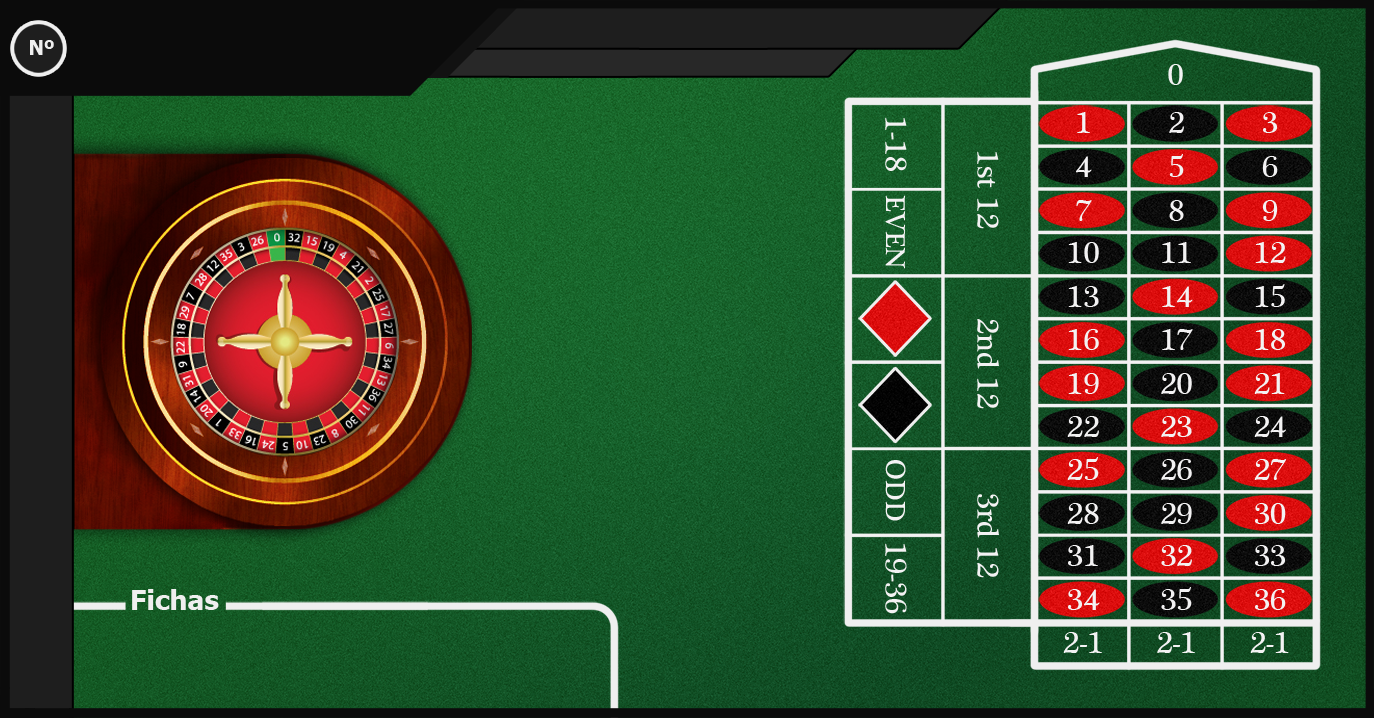
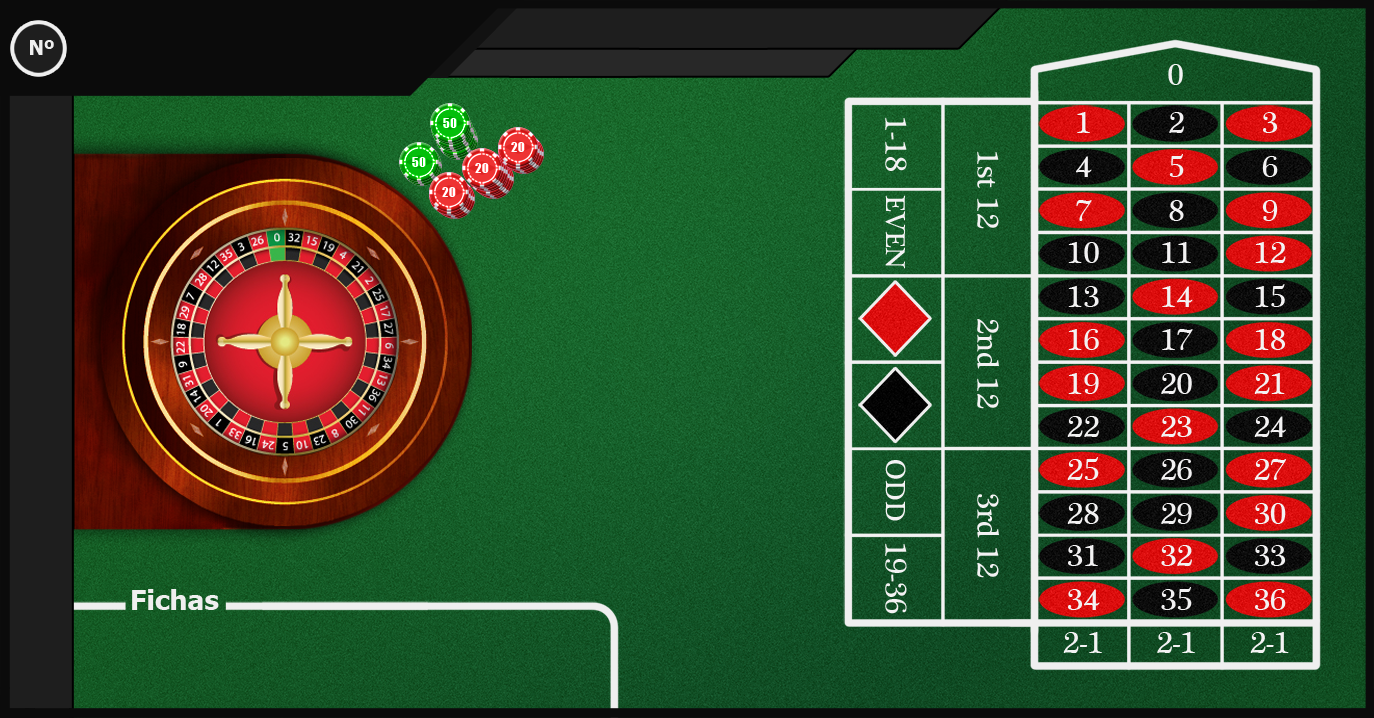
Beta 3.1

Changed region(s): [[0.2751, 0.1226, 0.3974, 0.3064]]

diff --git a/WpfApplication1/Roleta.xaml b/WpfApplication1/Roleta.xaml
@@ -104,8 +104,8 @@
                             x:Name="Border"  
                             CornerRadius="100" 
                             BorderThickness="6"
-                            Background="#212121"
-                            BorderBrush="#F2F2F2">
+                            Background="{TemplateBinding Background}"
+                            BorderBrush="#00F2F2F2">
                             <ContentPresenter 
                                   Margin="2"
                                   HorizontalAlignment="Center"
@@ -120,10 +120,11 @@
                                 <Setter TargetName="Border" Property="BorderBrush" Value="#E8E8E8" />
                             </Trigger>
                             <Trigger Property="IsMouseOver" Value="true">
-                                <Setter TargetName="Border" Property="Background" Value="#474747" />
+                                
+                                <Setter TargetName="Border" Property="BorderBrush" Value="#60F2F2F2" />
                             </Trigger>
                             <Trigger Property="IsPressed" Value="true">
-                                <Setter TargetName="Border" Property="Background" Value="#474747" />
+                                
                                 <Setter TargetName="Border" Property="BorderBrush" Value="#E8E8E8" />
                             </Trigger>
                             <Trigger Property="IsEnabled" Value="false">
@@ -144,7 +145,7 @@
                             x:Name="Border"  
                             CornerRadius="100" 
                             BorderThickness="6"
-                            Background="#474747"
+                            Background="{TemplateBinding Background}"
                             BorderBrush="#F2F2F2">
                             <ContentPresenter 
                                   Margin="2"
@@ -321,7 +322,7 @@
         </Style>
     </Window.Resources>
     
-    <Grid HorizontalAlignment="Left" VerticalAlignment="Top" Width="1200" Height="630" Name="layoutGrid">
+    <Grid HorizontalAlignment="Left" VerticalAlignment="Top" Width="1200" Height="630" Name="layoutGrid" MinHeight="60" MinWidth="60">
         <Grid.ColumnDefinitions>
         </Grid.ColumnDefinitions>
         <Grid.RowDefinitions>
@@ -332,12 +333,36 @@
         <Image Height="349" HorizontalAlignment="Left" Margin="63,124,0,0" Name="img_roulettte" Stretch="UniformToFill" VerticalAlignment="Top" Width="352" Source="/WpfApplication1;component/Images/Roleta.png" />
         <Button Content="Girar a Roleta" HorizontalAlignment="Right" Margin="0,187,511,344" Name="btn_spin" Width="208" Click="btn_spin_MouseLeftClick" FontSize="18" FontWeight="Bold" Foreground="#FFE2E2E2" Background="#FF00A345" BorderBrush="#FF5F5F5F" BorderThickness="10" OverridesDefaultStyle="True" UseLayoutRounding="False" Style="{StaticResource myStyle2}" IsEnabled="False"></Button>
         <Label Content="Saldo :" FontSize="30" FontWeight="Bold" Foreground="#FFFFC400" Height="45" HorizontalAlignment="Left" Margin="83,16,0,0" Name="lbl_saldo" VerticalAlignment="Top" Width="292" />
-        <Button Content="1" Height="60" HorizontalAlignment="Left" Margin="77,549,0,0" Name="chipBtn_1" VerticalAlignment="Top" Width="60" Style="{StaticResource chip}" FontSize="16" FontWeight="Bold" Foreground="#FFFFBD00" FontFamily="Arial" MinWidth="60" MinHeight="60" Click="chip_Click" ClickMode="Release" />
-        <Button Content="5" Height="60" HorizontalAlignment="Left" Margin="152,549,0,0" Name="chipBtn_5" VerticalAlignment="Top" Width="60" Style="{StaticResource chip}" FontSize="16" FontWeight="Bold" Foreground="#FFFFBD00" FontFamily="Arial" MinWidth="60" MinHeight="60" Click="chip_Click" ClickMode="Release" />
-        <Button Content="10" Height="60" HorizontalAlignment="Left" Margin="227,549,0,0" Name="chipBtn_10" VerticalAlignment="Top" Width="60" Style="{StaticResource chip}" FontSize="16" FontWeight="Bold" Foreground="#FFFFBD00" FontFamily="Arial" MinWidth="60" MinHeight="60" Click="chip_Click" ClickMode="Release" />
-        <Button Content="50" FontFamily="Arial" FontSize="16" FontWeight="Bold" Foreground="#FFFFBD00" Height="60" HorizontalAlignment="Left" Margin="377,549,0,0" MinHeight="60" MinWidth="60" Name="chipBtn_50" Style="{StaticResource chip}" VerticalAlignment="Top" Width="60" Click="chip_Click" ClickMode="Release" />
-        <Button Content="20" FontFamily="Arial" FontSize="16" FontWeight="Bold" Foreground="#FFFFBD00" Height="60" HorizontalAlignment="Left" Margin="302,549,0,0" MinHeight="60" MinWidth="60" Name="chipBtn_20" Style="{StaticResource chip}" VerticalAlignment="Top" Width="60" Click="chip_Click" ClickMode="Release" />
-        <Button Content="100" FontFamily="Arial" FontSize="16" FontWeight="Bold" Foreground="#FFFFBD00" Height="60" HorizontalAlignment="Left" Margin="452,549,0,0" MinHeight="60" MinWidth="60" Name="chipBtn_100" Style="{StaticResource chip}" VerticalAlignment="Top" Width="60" Click="chip_Click" OpacityMask="Black" ClickMode="Release" />
+        <Button Content="1" Height="60" HorizontalAlignment="Left" Margin="77,549,0,0" Name="chipBtn_1" VerticalAlignment="Top" Width="60" Style="{StaticResource chip}" FontSize="16" FontWeight="Bold" Foreground="{x:Null}" FontFamily="Arial" MinWidth="60" MinHeight="60" Click="chip_Click" ClickMode="Release">
+            <Button.Background>
+                <ImageBrush ImageSource="/WpfApplication1;component/Images/Ficha5.png" />
+            </Button.Background>
+        </Button>
+        <Button Content="5" Height="60" HorizontalAlignment="Left" Margin="152,549,0,0" Name="chipBtn_5" VerticalAlignment="Top" Width="60" Style="{StaticResource chip}" FontSize="16" FontWeight="Bold" Foreground="{x:Null}" FontFamily="Arial" MinWidth="60" MinHeight="60" Click="chip_Click" ClickMode="Release">
+            <Button.Background>
+                <ImageBrush ImageSource="/WpfApplication1;component/Images/Ficha6.png" />
+            </Button.Background>
+        </Button>
+        <Button Content="10" Height="60" HorizontalAlignment="Left" Margin="227,549,0,0" Name="chipBtn_10" VerticalAlignment="Top" Width="60" Style="{StaticResource chip}" FontSize="16" FontWeight="Bold" Foreground="{x:Null}" FontFamily="Arial" MinWidth="60" MinHeight="60" Click="chip_Click" ClickMode="Release">
+            <Button.Background>
+                <ImageBrush ImageSource="/WpfApplication1;component/Images/Ficha4.png" />
+            </Button.Background>
+        </Button>
+        <Button Content="50" FontFamily="Arial" FontSize="16" FontWeight="Bold" Foreground="{x:Null}" Height="60" HorizontalAlignment="Left" Margin="377,549,0,0" MinHeight="60" MinWidth="60" Name="chipBtn_50" Style="{StaticResource chip}" VerticalAlignment="Top" Width="60" Click="chip_Click" ClickMode="Release" OverridesDefaultStyle="True" DataContext="{Binding}">
+            <Button.Background>
+                <ImageBrush ImageSource="/WpfApplication1;component/Images/Ficha2.png" />
+            </Button.Background>
+        </Button>
+        <Button Content="20" FontFamily="Arial" FontSize="16" FontWeight="Bold" Foreground="{x:Null}" Height="60" HorizontalAlignment="Left" Margin="302,549,0,0" MinHeight="60" MinWidth="60" Name="chipBtn_20" Style="{StaticResource chip}" VerticalAlignment="Top" Width="60" Click="chip_Click" ClickMode="Release">
+            <Button.Background>
+                <ImageBrush ImageSource="/WpfApplication1;component/Images/Ficha.png" />
+            </Button.Background>
+        </Button>
+        <Button Content="100" FontFamily="Arial" FontSize="16" FontWeight="Bold" Foreground="{x:Null}" Height="60" HorizontalAlignment="Left" Margin="452,549,0,0" MinHeight="40" MinWidth="40" Name="chipBtn_100" Style="{StaticResource chip}" VerticalAlignment="Top" Width="60" Click="chip_Click" OpacityMask="Black" ClickMode="Release">
+            <Button.Background>
+                <ImageBrush ImageSource="/WpfApplication1;component/Images/Ficha3.png" />
+            </Button.Background>
+        </Button>
         <Label Content="Dica :" Height="36" Margin="447,8,702,0" Name="lbl_hintTitle" VerticalAlignment="Top" Foreground="#FFE8E8E8" FontSize="16" FontWeight="Bold" />
         <Label Content="Texto" FontSize="13" FontWeight="Normal" Foreground="#FFC4C4C4" Height="26" HorizontalAlignment="Left" Margin="499,11,0,0" Name="lbl_hint" VerticalAlignment="Top" />
         <Button Content="Novo Jogo" Height="99" HorizontalAlignment="Left" Margin="481,308,0,0" Name="btn_newGame" VerticalAlignment="Top" Width="208" Click="btn_newGame_Click" IsEnabled="True" Style="{StaticResource myStyle2}" Foreground="#FFDBDBDB" FontWeight="Bold" FontSize="18" ForceCursor="False" Cursor="Hand" Visibility="Hidden"></Button>

diff --git a/WpfApplication1/Roleta.xaml.cs b/WpfApplication1/Roleta.xaml.cs
@@ -37,7 +37,7 @@ namespace com.indes.jogo_roleta
             new System.Windows.Threading.DispatcherTimer();
         private Image bola = new Image();
         private int bet_value = 0;
-        private int balance = 200;
+        private int balance = 1000;
         private int rouletteNumber;
 
         Canvas tableCanvas = new Canvas();
@@ -291,7 +291,32 @@ namespace com.indes.jogo_roleta
 
                     //Cria uma nova ficha adiciona-a à mesa de jogo
                     imgChip = new Image();
-                    imgChip.Source = new BitmapImage(new Uri("pack://application:,,,/Images/Ficha.png"));
+
+                    switch (bet_value){
+                        case (1):
+                            imgChip.Source = new BitmapImage(new Uri("pack://application:,,,/Images/Ficha5.png"));
+                            break;
+                        case (5):
+                            imgChip.Source = new BitmapImage(new Uri("pack://application:,,,/Images/Ficha6.png"));
+                            break;
+                        case (10):
+                            imgChip.Source = new BitmapImage(new Uri("pack://application:,,,/Images/Ficha4.png"));
+                            break;
+                        case (20):
+                            imgChip.Source = new BitmapImage(new Uri("pack://application:,,,/Images/Ficha.png"));
+                            break;
+                        case (50):
+                            imgChip.Source = new BitmapImage(new Uri("pack://application:,,,/Images/Ficha2.png"));
+                            break;
+                        case (100):
+                            imgChip.Source = new BitmapImage(new Uri("pack://application:,,,/Images/Ficha3.png"));
+                            break;
+                        default:
+                            imgChip.Source = new BitmapImage(new Uri("pack://application:,,,/Images/Ficha.png"));
+                            break;
+                    }
+
+                    
                     imgChip.Name = "imgChip_" + (String)((sender as Button).Name);
                     imgChip.Width = 30;
                     imgChip.Height = 30;
